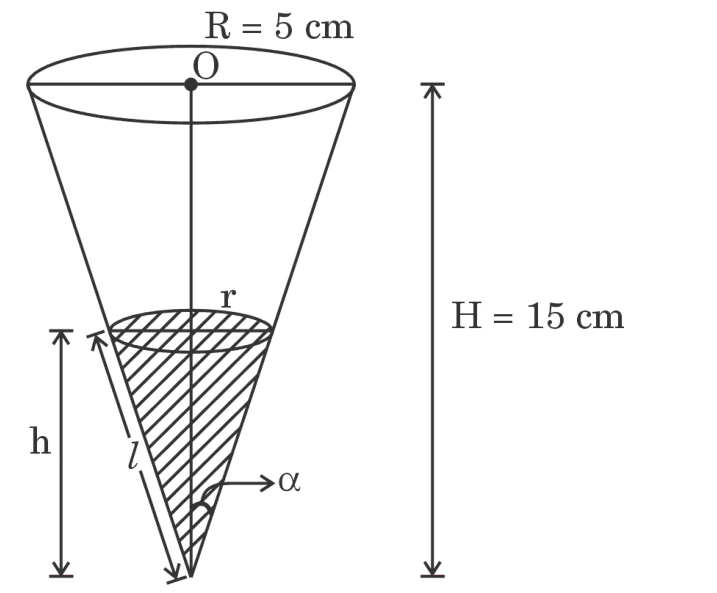
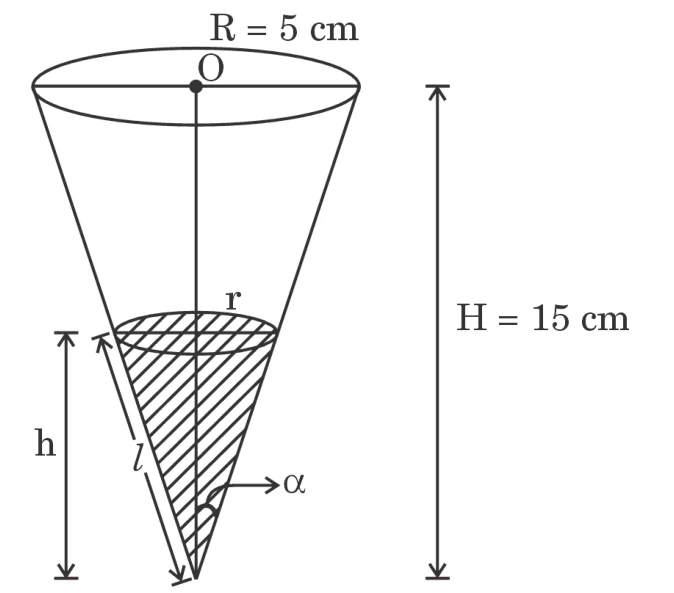
Complete 2026 65/4/1 (Q26-38)
Claude-Session: https://claude.ai/code/session_01W7XZGjmttugF6fo92Sv419

Changed region(s): [[0.0312, 0.0, 0.5608, 1.0], [0.592, 0.1214, 0.9347, 1.0]]

diff --git a/content/2026/65-4-1.md b/content/2026/65-4-1.md
@@ -314,3 +314,238 @@ $$\cos^2\frac{\pi}{4} + \cos^2\frac{\pi}{3} + \cos^2\theta = 1 \Rightarrow \frac
 $\theta$ is acute, so $\cos\theta = \dfrac{1}{2} \Rightarrow \theta = \dfrac{\pi}{3}$.
 Since $|\vec{a}| = 1$, its components are its direction cosines:
 $$\vec{a} = \frac{1}{\sqrt{2}}\hat{i} + \frac{1}{2}\hat{j} + \frac{1}{2}\hat{k},\quad\text{components } \frac{1}{\sqrt{2}},\ \frac{1}{2},\ \frac{1}{2}$$
+
+=== 26a | rf | 3 | sub
+@topic One-one and onto functions
+Let $A = \mathbb{R} - \{3\}$ and $B = \mathbb{R} - \{1\}$. A function $f : A \to B$ is defined by $f(x) = \left(\dfrac{x - 2}{x - 3}\right)$. Find whether $f$ is one-one and onto.
+--- ans
+**One-one:** Let $x_1, x_2 \in A$ with $f(x_1) = f(x_2)$.
+$$\frac{x_1 - 2}{x_1 - 3} = \frac{x_2 - 2}{x_2 - 3} \Rightarrow x_1x_2 - 3x_1 - 2x_2 + 6 = x_1x_2 - 2x_1 - 3x_2 + 6 \Rightarrow -x_1 = -x_2 \Rightarrow x_1 = x_2$$
+$\therefore f$ is one-one.
+**Onto:** Let $y \in B$ ($y \ne 1$). Put $\dfrac{x - 2}{x - 3} = y \Rightarrow x - 2 = xy - 3y \Rightarrow x(1 - y) = 2 - 3y \Rightarrow x = \dfrac{3y - 2}{y - 1}$.
+This $x$ is real since $y \ne 1$, and $x \ne 3$ (otherwise $3y - 2 = 3y - 3$, i.e. $-2 = -3$, impossible), so $x \in A$, and $f(x) = \dfrac{\frac{3y-2}{y-1} - 2}{\frac{3y-2}{y-1} - 3} = \dfrac{y}{1} = y$.
+$\therefore$ every $y \in B$ has a pre-image; $f$ is onto.
+Hence **$f$ is both one-one and onto** (bijective).
+
+=== 26b | rf | 3 | sub
+@topic Equivalence relations and classes
+Let $n$ be a fixed positive integer. A relation $R$ is defined in set $\mathbb{Z}$ such that $R = \{(x, y) : (x - y) \text{ is divisible by } n,\ x, y \in \mathbb{Z}\}$. Determine if $R$ is an equivalence relation.
+--- ans
+**Reflexive:** For every $x \in \mathbb{Z}$, $x - x = 0 = 0 \cdot n$ is divisible by $n$, so $(x, x) \in R$.
+**Symmetric:** $(x, y) \in R \Rightarrow x - y = kn$ for some $k \in \mathbb{Z} \Rightarrow y - x = (-k)n \Rightarrow (y, x) \in R$.
+**Transitive:** $(x, y), (y, z) \in R \Rightarrow x - y = k_1n,\ y - z = k_2n \Rightarrow x - z = (k_1 + k_2)n \Rightarrow (x, z) \in R$.
+Since $R$ is reflexive, symmetric and transitive, **$R$ is an equivalence relation**.
+
+=== 27 | mat | 3 | sub
+@topic Operations on matrices
+If $A = \begin{bmatrix} 3 & 2 & 0 \\ 1 & 4 & 0 \\ 0 & 0 & 5 \end{bmatrix}$, then compute $A^2 - 7A + 10I$.
+--- ans
+$$A^2 = \begin{bmatrix} 3 & 2 & 0 \\ 1 & 4 & 0 \\ 0 & 0 & 5 \end{bmatrix}\begin{bmatrix} 3 & 2 & 0 \\ 1 & 4 & 0 \\ 0 & 0 & 5 \end{bmatrix} = \begin{bmatrix} 9 + 2 & 6 + 8 & 0 \\ 3 + 4 & 2 + 16 & 0 \\ 0 & 0 & 25 \end{bmatrix} = \begin{bmatrix} 11 & 14 & 0 \\ 7 & 18 & 0 \\ 0 & 0 & 25 \end{bmatrix}$$
+$$7A = \begin{bmatrix} 21 & 14 & 0 \\ 7 & 28 & 0 \\ 0 & 0 & 35 \end{bmatrix},\qquad 10I = \begin{bmatrix} 10 & 0 & 0 \\ 0 & 10 & 0 \\ 0 & 0 & 10 \end{bmatrix}$$
+$$A^2 - 7A + 10I = \begin{bmatrix} 11 - 21 + 10 & 14 - 14 + 0 & 0 \\ 7 - 7 + 0 & 18 - 28 + 10 & 0 \\ 0 & 0 & 25 - 35 + 10 \end{bmatrix} = \begin{bmatrix} 0 & 0 & 0 \\ 0 & 0 & 0 \\ 0 & 0 & 0 \end{bmatrix}$$
+$\therefore$ **$A^2 - 7A + 10I = O$** (the zero matrix).
+
+=== 28a | cd | 3 | sub
+@topic Logarithmic differentiation
+If $xy = e^{x - y}$, then find $\dfrac{dy}{dx}$.
+--- ans
+Taking logarithms: $\log x + \log y = x - y$.
+Differentiating w.r.t. $x$:
+$$\frac{1}{x} + \frac{1}{y}\frac{dy}{dx} = 1 - \frac{dy}{dx} \Rightarrow \frac{dy}{dx}\left(\frac{1}{y} + 1\right) = 1 - \frac{1}{x} \Rightarrow \frac{dy}{dx}\cdot\frac{1 + y}{y} = \frac{x - 1}{x}$$
+$$\boxed{\dfrac{dy}{dx} = \dfrac{y(x - 1)}{x(1 + y)}}$$
+
+=== 28b | cd | 3 | sub
+@topic Derivatives of inverse trigonometric functions
+Differentiate $\tan^{-1}\left(\dfrac{\sqrt{1 + x^2} - \sqrt{1 - x^2}}{\sqrt{1 + x^2} + \sqrt{1 - x^2}}\right)$ with respect to $\cos^{-1}x^2$.
+--- ans
+Let $u = \tan^{-1}\left(\dfrac{\sqrt{1 + x^2} - \sqrt{1 - x^2}}{\sqrt{1 + x^2} + \sqrt{1 - x^2}}\right)$ and $v = \cos^{-1}x^2$.
+Put $x^2 = \cos 2\theta$, so $\theta = \dfrac{1}{2}\cos^{-1}x^2 \in \left[0, \dfrac{\pi}{4}\right]$. Then $\sqrt{1 + \cos 2\theta} = \sqrt{2}\cos\theta$, $\sqrt{1 - \cos 2\theta} = \sqrt{2}\sin\theta$.
+$$u = \tan^{-1}\left(\frac{\cos\theta - \sin\theta}{\cos\theta + \sin\theta}\right) = \tan^{-1}\left(\frac{1 - \tan\theta}{1 + \tan\theta}\right) = \tan^{-1}\left(\tan\left(\frac{\pi}{4} - \theta\right)\right) = \frac{\pi}{4} - \theta$$
+(valid since $\frac{\pi}{4} - \theta \in \left[0, \frac{\pi}{4}\right]$). So
+$$u = \frac{\pi}{4} - \frac{1}{2}\cos^{-1}x^2 = \frac{\pi}{4} - \frac{1}{2}v \Rightarrow \boxed{\dfrac{du}{dv} = -\dfrac{1}{2}}$$
+
+=== 29 | lpp | 3 | sub
+@topic Graphical method – bounded region
+Solve the following Linear Programming Problem graphically :
+Maximise $Z = 200x + 120y$
+subject to the constraints
+$$x + y \le 300,\quad 3x + y \le 600,\quad x - y \ge -100,\quad x, y \ge 0$$
+--- ans
+Draw the lines $x + y = 300$ (through $(300, 0), (0, 300)$), $3x + y = 600$ (through $(200, 0), (0, 600)$) and $x - y = -100$ (through $(-100, 0), (0, 100)$). The origin satisfies all three inequalities, so the feasible region OABCD lies on the origin side of each line.
+```plot
+{"x":[-20,320],"y":[-20,320],"lines":[{"a":1,"b":1,"c":300,"label":"x+y=300"},{"a":3,"b":1,"c":600,"label":"3x+y=600"},{"a":1,"b":-1,"c":-100,"label":"x−y=−100"}],"polygons":[{"pts":[[0,0],[200,0],[150,150],[100,200],[0,100]]}],"points":[[0,0,"O"],[200,0,"A(200, 0)"],[150,150,"B(150, 150)"],[100,200,"C(100, 200)"],[0,100,"D(0, 100)"]]}
+```
+B: $x + y = 300$ and $3x + y = 600 \Rightarrow 2x = 300 \Rightarrow (150, 150)$. C: $x + y = 300$ and $y = x + 100 \Rightarrow (100, 200)$.
+
+| Corner point | $Z = 200x + 120y$ |
+|---|---|
+| O$(0, 0)$ | $0$ |
+| A$(200, 0)$ | $40000$ |
+| B$(150, 150)$ | $48000$ ← maximum |
+| C$(100, 200)$ | $44000$ |
+| D$(0, 100)$ | $12000$ |
+
+The region is bounded, so **maximum $Z = 48000$ at $x = 150,\ y = 150$**.
+
+=== 30a | 3d | 3 | sub
+@topic Equation of a line
+Find a point on the line $\dfrac{x - 2}{3} = \dfrac{1 - y}{2} = \dfrac{z - 3}{2}$ at a distance of $\sqrt{2}$ units from the point $(1, 2, 3)$.
+--- ans
+Let $\dfrac{x - 2}{3} = \dfrac{1 - y}{2} = \dfrac{z - 3}{2} = \lambda$. Any point on the line is $P(3\lambda + 2,\ 1 - 2\lambda,\ 2\lambda + 3)$.
+Distance from $Q(1, 2, 3)$:
+$$PQ^2 = (3\lambda + 1)^2 + (-1 - 2\lambda)^2 + (2\lambda)^2 = 2$$
+$$9\lambda^2 + 6\lambda + 1 + 4\lambda^2 + 4\lambda + 1 + 4\lambda^2 = 2 \Rightarrow 17\lambda^2 + 10\lambda = 0 \Rightarrow \lambda = 0 \text{ or } \lambda = -\frac{10}{17}$$
+$\lambda = 0$: $P(2, 1, 3)$. $\quad\lambda = -\dfrac{10}{17}$: $P\left(\dfrac{4}{17}, \dfrac{37}{17}, \dfrac{31}{17}\right)$.
+Required point: **$(2, 1, 3)$** (or $\left(\frac{4}{17}, \frac{37}{17}, \frac{31}{17}\right)$).
+
+=== 30b | 3d | 3 | sub
+@topic Shortest distance between lines
+Find the shortest distance between the lines
+$$\vec{r} = (4 + \lambda)\hat{i} + (2\lambda - 1)\hat{j} - 3\lambda\hat{k}$$
+$$\vec{r} = (1 + 2\mu)\hat{i} + (2 - 5\mu)\hat{k} + (4\mu - 1)\hat{j}.$$
+--- ans
+Write the lines as $\vec{r} = \vec{a}_1 + \lambda\vec{b}_1$ and $\vec{r} = \vec{a}_2 + \mu\vec{b}_2$:
+$\vec{a}_1 = 4\hat{i} - \hat{j}$, $\vec{b}_1 = \hat{i} + 2\hat{j} - 3\hat{k}$; $\quad\vec{a}_2 = \hat{i} - \hat{j} + 2\hat{k}$, $\vec{b}_2 = 2\hat{i} + 4\hat{j} - 5\hat{k}$.
+$$\vec{b}_1 \times \vec{b}_2 = \begin{vmatrix} \hat{i} & \hat{j} & \hat{k} \\ 1 & 2 & -3 \\ 2 & 4 & -5 \end{vmatrix} = (-10 + 12)\hat{i} - (-5 + 6)\hat{j} + (4 - 4)\hat{k} = 2\hat{i} - \hat{j}$$
+$|\vec{b}_1 \times \vec{b}_2| = \sqrt{5}$, $\quad\vec{a}_2 - \vec{a}_1 = -3\hat{i} + 2\hat{k}$, $\quad(\vec{a}_2 - \vec{a}_1)\cdot(\vec{b}_1 \times \vec{b}_2) = -6$.
+$$SD = \left|\frac{(\vec{a}_2 - \vec{a}_1)\cdot(\vec{b}_1 \times \vec{b}_2)}{|\vec{b}_1 \times \vec{b}_2|}\right| = \frac{6}{\sqrt{5}} \text{ units}$$
+
+=== 31 | prob | 3 | sub
+@topic Total probability and Bayes' theorem
+In a school, the probability of holding a debate competition is $\dfrac{1}{3}$ and that of a quiz competition is $\dfrac{2}{3}$. In the two participating teams, A has 4 girls and 6 boys and B has 7 girls and 3 boys. If a debate competition is held, the students are selected from team A and for the quiz competition they are selected from team B. If only two students are to be chosen from the teams, then find the probability that one will be a girl and the other a boy.
+--- ans
+Let $E_1$: debate is held (team A), $E_2$: quiz is held (team B), $E$: one girl and one boy are chosen.
+$P(E_1) = \dfrac{1}{3}$, $P(E_2) = \dfrac{2}{3}$.
+$$P(E \mid E_1) = \frac{{}^4C_1 \times {}^6C_1}{{}^{10}C_2} = \frac{24}{45} = \frac{8}{15},\qquad P(E \mid E_2) = \frac{{}^7C_1 \times {}^3C_1}{{}^{10}C_2} = \frac{21}{45} = \frac{7}{15}$$
+By the theorem of total probability,
+$$P(E) = P(E_1)P(E \mid E_1) + P(E_2)P(E \mid E_2) = \frac{1}{3}\cdot\frac{8}{15} + \frac{2}{3}\cdot\frac{7}{15} = \frac{8 + 14}{45} = \boxed{\dfrac{22}{45}}$$
+
+=== 32a | int | 5 | sub
+@topic Partial fractions
+Find : $\displaystyle\int \frac{x}{(x - 1)(x^2 + 4)}\,dx$
+--- ans
+Let $\dfrac{x}{(x - 1)(x^2 + 4)} = \dfrac{A}{x - 1} + \dfrac{Bx + C}{x^2 + 4} \Rightarrow x = A(x^2 + 4) + (Bx + C)(x - 1)$.
+Put $x = 1$: $1 = 5A \Rightarrow A = \dfrac{1}{5}$. Comparing coefficients of $x^2$: $A + B = 0 \Rightarrow B = -\dfrac{1}{5}$. Constants: $4A - C = 0 \Rightarrow C = \dfrac{4}{5}$.
+$$I = \frac{1}{5}\int\frac{dx}{x - 1} - \frac{1}{5}\int\frac{x}{x^2 + 4}\,dx + \frac{4}{5}\int\frac{dx}{x^2 + 4}$$
+$$= \frac{1}{5}\log|x - 1| - \frac{1}{10}\log(x^2 + 4) + \frac{4}{5}\cdot\frac{1}{2}\tan^{-1}\frac{x}{2} + C$$
+$$\boxed{I = \dfrac{1}{5}\log|x - 1| - \dfrac{1}{10}\log(x^2 + 4) + \dfrac{2}{5}\tan^{-1}\dfrac{x}{2} + C}$$
+
+=== 32b | int | 5 | sub
+@topic Integration by parts
+Evaluate : $\displaystyle\int_0^1 \frac{x\tan^{-1}x}{(1 + x^2)^{3/2}}\,dx$
+--- ans
+Put $x = \tan\theta$, $dx = \sec^2\theta\,d\theta$; $x = 0 \Rightarrow \theta = 0$, $x = 1 \Rightarrow \theta = \dfrac{\pi}{4}$. Also $(1 + x^2)^{3/2} = \sec^3\theta$.
+$$I = \int_0^{\pi/4} \frac{\tan\theta\cdot\theta\cdot\sec^2\theta}{\sec^3\theta}\,d\theta = \int_0^{\pi/4} \theta\sin\theta\,d\theta$$
+Integrating by parts (first function $\theta$):
+$$I = \Big[-\theta\cos\theta\Big]_0^{\pi/4} + \int_0^{\pi/4}\cos\theta\,d\theta = -\frac{\pi}{4}\cdot\frac{1}{\sqrt{2}} + \Big[\sin\theta\Big]_0^{\pi/4} = -\frac{\pi}{4\sqrt{2}} + \frac{1}{\sqrt{2}}$$
+$$\boxed{I = \dfrac{1}{\sqrt{2}}\left(1 - \dfrac{\pi}{4}\right) = \dfrac{4 - \pi}{4\sqrt{2}}}$$
+
+=== 33 | aoi | 5 | sub
+@topic Area enclosed by lines
+Using integration, find the area of the region enclosed by the curve $y = |x - 6|$, the x-axis, and between $x = 4$ and $x = 8$.
+--- ans
+$y = |x - 6| = \begin{cases} 6 - x, & x < 6 \\ x - 6, & x \ge 6 \end{cases}$
+```plot
+{"x":[3,9],"y":[-0.5,3],"fns":[{"f":"abs(x-6)","from":3,"to":9}],"areas":[{"upper":"abs(x-6)","lower":"0","from":4,"to":8}],"points":[[4,2,"(4, 2)"],[6,0,"(6, 0)"],[8,2,"(8, 2)"]],"labels":[[7.4,2.6,"y = |x − 6|"]]}
+```
+$$\text{Area} = \int_4^6 (6 - x)\,dx + \int_6^8 (x - 6)\,dx = \left[6x - \frac{x^2}{2}\right]_4^6 + \left[\frac{x^2}{2} - 6x\right]_6^8$$
+$$= (18 - 16) + (-16 - (-18)) = 2 + 2 = 4$$
+**Required area = 4 sq. units.**
+
+=== 34a | de | 5 | sub
+@topic Linear differential equations
+Solve the differential equation $y\,e^y\,dx = (y^3 + 2x\,e^y)\,dy$, when $y(0) = 1$.
+--- ans
+$$\frac{dx}{dy} = \frac{y^3 + 2xe^y}{ye^y} = y^2e^{-y} + \frac{2x}{y} \Rightarrow \frac{dx}{dy} - \frac{2}{y}x = y^2e^{-y}$$
+This is linear in $x$ with $P = -\dfrac{2}{y}$, $Q = y^2e^{-y}$.
+$$\text{I.F.} = e^{\int -\frac{2}{y}dy} = e^{-2\log y} = \frac{1}{y^2}$$
+Solution: $x\cdot\dfrac{1}{y^2} = \displaystyle\int y^2e^{-y}\cdot\frac{1}{y^2}\,dy = \int e^{-y}\,dy = -e^{-y} + C$.
+Using $y(0) = 1$ (i.e. $x = 0$ when $y = 1$): $0 = -e^{-1} + C \Rightarrow C = \dfrac{1}{e}$.
+$$\boxed{x = y^2\left(\dfrac{1}{e} - e^{-y}\right)}$$
+
+=== 34b | de | 5 | sub
+@topic Homogeneous equations
+Find the general solution of the differential equation
+$$(x^3 - 3xy^2)\,dx = (y^3 - 3x^2y)\,dy.$$
+--- ans
+$\dfrac{dy}{dx} = \dfrac{x^3 - 3xy^2}{y^3 - 3x^2y}$ is homogeneous. Put $y = vx$, $\dfrac{dy}{dx} = v + x\dfrac{dv}{dx}$:
+$$v + x\frac{dv}{dx} = \frac{1 - 3v^2}{v^3 - 3v} \Rightarrow x\frac{dv}{dx} = \frac{1 - 3v^2 - v^4 + 3v^2}{v^3 - 3v} = \frac{1 - v^4}{v^3 - 3v}$$
+$$\int\frac{v^3 - 3v}{1 - v^4}\,dv = \int\frac{dx}{x}$$
+Now $\displaystyle\int\frac{v^3}{1 - v^4}dv = -\frac{1}{4}\log|1 - v^4|$ and, with $t = v^2$, $\displaystyle\int\frac{3v}{1 - v^4}dv = \frac{3}{2}\int\frac{dt}{1 - t^2} = \frac{3}{4}\log\left|\frac{1 + v^2}{1 - v^2}\right|$.
+$$-\frac{1}{4}\log|1 - v^4| - \frac{3}{4}\log\left|\frac{1 + v^2}{1 - v^2}\right| = \log|x| + c$$
+Multiplying by $-4$: $\log\left|(1 - v^2)(1 + v^2)\cdot\dfrac{(1 + v^2)^3}{(1 - v^2)^3}\right| = -4\log|x| + c_1 \Rightarrow \dfrac{(1 + v^2)^4}{(1 - v^2)^2} = \dfrac{C}{x^4}$
+Substituting $v = \dfrac{y}{x}$: $\dfrac{(x^2 + y^2)^4}{(x^2 - y^2)^2} = C \Rightarrow$
+$$\boxed{(x^2 + y^2)^2 = K(x^2 - y^2)}$$
+where $K$ is an arbitrary constant.
+
+=== 35 | 3d | 5 | sub
+@topic Intersection and collinearity
+Find the equation of a line (in vector and cartesian form) that passes through the point of intersection of lines $\dfrac{x - 1}{2} = \dfrac{y - 2}{3} = \dfrac{z - 3}{4}$ and $\dfrac{x - 4}{5} = \dfrac{y - 1}{2} = z$ and is parallel to the vector $3\hat{i} + 2\hat{j} - 8\hat{k}$.
+--- ans
+General points: $L_1$: $(2\lambda + 1,\ 3\lambda + 2,\ 4\lambda + 3)$; $\quad L_2$: $(5\mu + 4,\ 2\mu + 1,\ \mu)$.
+At the intersection:
+$$2\lambda + 1 = 5\mu + 4 \Rightarrow 2\lambda - 5\mu = 3 \quad\text{and}\quad 3\lambda + 2 = 2\mu + 1 \Rightarrow 3\lambda - 2\mu = -1$$
+Solving: $\lambda = -1$, $\mu = -1$. Check $z$: $4(-1) + 3 = -1 = \mu$ ✓.
+Point of intersection: $(-1, -1, -1)$.
+Required line through $(-1, -1, -1)$ parallel to $3\hat{i} + 2\hat{j} - 8\hat{k}$:
+**Vector form:** $\vec{r} = (-\hat{i} - \hat{j} - \hat{k}) + t(3\hat{i} + 2\hat{j} - 8\hat{k})$
+**Cartesian form:** $\dfrac{x + 1}{3} = \dfrac{y + 1}{2} = \dfrac{z + 1}{-8}$
+
+=== 36 | aod | 4 | case
+@topic Rate of change
+@fig 2026-65-4-1-q36.webp
+At a birthday party, children are being served orange juice in conical cups, as shown in the figure.
+[[fig]]
+Each cup is 15 cm deep and has a radius 5 cm. The juice is being poured into this cup at a rate of $0{\cdot}1\ \text{cm}^3/\text{s}$.
+On the basis of the above information, answer the following questions :
+(i) Establish a relation between the height $h$ of the juice in the cup and radius $r$ of the surface of the juice in the cup, if the semi-vertical angle of the cone is $\alpha$. **[1]**
+(ii) At what rate is the juice level in the cup rising when the juice is 6 cm deep ? **[1]**
+(iii) (a) When the juice is 6 cm deep, then find at what rate is the upper surface area of juice increasing ? **[2]**
+**OR**
+(iii) (b) When the juice is 6 cm deep, then find the rate at which the wetted surface area of the cup is increasing. **[2]**
+--- ans
+**(i)** $\tan\alpha = \dfrac{r}{h} = \dfrac{R}{H} = \dfrac{5}{15} = \dfrac{1}{3}$, so $r = h\tan\alpha$, i.e. **$r = \dfrac{h}{3}$**.
+**(ii)** Volume of juice $V = \dfrac{1}{3}\pi r^2h = \dfrac{1}{3}\pi\cdot\dfrac{h^2}{9}\cdot h = \dfrac{\pi h^3}{27}$.
+$$\frac{dV}{dt} = \frac{\pi h^2}{9}\frac{dh}{dt} \Rightarrow 0.1 = \frac{\pi(36)}{9}\frac{dh}{dt} = 4\pi\frac{dh}{dt} \Rightarrow \frac{dh}{dt} = \frac{1}{40\pi}\ \text{cm/s}$$
+**(iii) (a)** Upper surface area $A = \pi r^2 = \dfrac{\pi h^2}{9}$.
+$$\frac{dA}{dt} = \frac{2\pi h}{9}\frac{dh}{dt} = \frac{2\pi(6)}{9}\cdot\frac{1}{40\pi} = \frac{1}{30}\ \text{cm}^2/\text{s}$$
+**(iii) (b)** Wetted surface = curved surface of the juice cone, $S = \pi rl$ with $l = \sqrt{r^2 + h^2} = \sqrt{\dfrac{h^2}{9} + h^2} = \dfrac{\sqrt{10}\,h}{3}$.
+$$S = \pi\cdot\frac{h}{3}\cdot\frac{\sqrt{10}\,h}{3} = \frac{\sqrt{10}\,\pi h^2}{9} \Rightarrow \frac{dS}{dt} = \frac{2\sqrt{10}\,\pi h}{9}\frac{dh}{dt} = \frac{2\sqrt{10}\,\pi(6)}{9}\cdot\frac{1}{40\pi} = \frac{\sqrt{10}}{30}\ \text{cm}^2/\text{s}$$
+
+=== 37 | det | 4 | case
+@topic Systems of linear equations
+A carpenter needs to design a wooden box in the shape of a cuboid such that the sum of its length and breadth is 3 cm more than its height. Twice of its length, thrice of its breadth and its height add up to 10 cm. Its breadth added to 7 times its height is 1 cm less than 3 times its length.
+On the basis of the above information, answer the following questions :
+(i) Write the equations representing the various dimensions and express them as the matrix equation $AX = B$. **[1]**
+(ii) Find if $A^{-1}$ exists. Justify your answer. **[1]**
+(iii) (a) Find $A^{-1}$. **[2]**
+**OR**
+(iii) (b) Find $A^2 + 7I$. **[2]**
+--- ans
+**(i)** Let length $= l$, breadth $= b$, height $= h$ (in cm):
+$$l + b - h = 3,\qquad 2l + 3b + h = 10,\qquad 3l - b - 7h = 1$$
+$$\underbrace{\begin{bmatrix} 1 & 1 & -1 \\ 2 & 3 & 1 \\ 3 & -1 & -7 \end{bmatrix}}_{A}\underbrace{\begin{bmatrix} l \\ b \\ h \end{bmatrix}}_{X} = \underbrace{\begin{bmatrix} 3 \\ 10 \\ 1 \end{bmatrix}}_{B}$$
+**(ii)** $|A| = 1(-21 + 1) - 1(-14 - 3) + (-1)(-2 - 9) = -20 + 17 + 11 = 8 \ne 0$.
+Since $A$ is non-singular, **$A^{-1}$ exists**.
+**(iii) (a)** Cofactors: $C_{11} = -20,\ C_{12} = 17,\ C_{13} = -11$; $C_{21} = 8,\ C_{22} = -4,\ C_{23} = 4$; $C_{31} = 4,\ C_{32} = -3,\ C_{33} = 1$.
+$$A^{-1} = \frac{1}{|A|}\operatorname{adj}A = \frac{1}{8}\begin{bmatrix} -20 & 8 & 4 \\ 17 & -4 & -3 \\ -11 & 4 & 1 \end{bmatrix}$$
+(Then $X = A^{-1}B = \frac{1}{8}\begin{bmatrix} 24 \\ 8 \\ 8 \end{bmatrix}$, i.e. $l = 3$ cm, $b = 1$ cm, $h = 1$ cm.)
+**(iii) (b)**
+$$A^2 = \begin{bmatrix} 1 & 1 & -1 \\ 2 & 3 & 1 \\ 3 & -1 & -7 \end{bmatrix}\begin{bmatrix} 1 & 1 & -1 \\ 2 & 3 & 1 \\ 3 & -1 & -7 \end{bmatrix} = \begin{bmatrix} 0 & 5 & 7 \\ 11 & 10 & -6 \\ -20 & 7 & 45 \end{bmatrix}$$
+$$A^2 + 7I = \begin{bmatrix} 7 & 5 & 7 \\ 11 & 17 & -6 \\ -20 & 7 & 52 \end{bmatrix}$$
+(If the equations are written in a different order, $A$ and these answers change accordingly.)
+
+=== 38 | prob | 4 | case
+@topic Total probability and Bayes' theorem
+An NGO organises a charity event in which they decide to distribute woollen caps to protect children from winter. The caps to be distributed are in three separate boxes, Box I has 30 red caps, Box II has 20 red and 10 green caps, and Box III has 30 green caps. The probability that a Box $i$ is selected and a cap picked out is $\dfrac{i}{6}$, where $i = 1, 2, 3$.
+Based on the above information, answer the following questions :
+A person selects a cap.
+(i) What is the probability that he selects a red cap ? **[2]**
+(ii) If he selects a green cap, what is the probability that the cap has come from Box II ? **[2]**
+--- ans
+Let $E_1, E_2, E_3$: Box I, II, III is selected; $R$: red cap, $G$: green cap.
+$P(E_1) = \dfrac{1}{6},\ P(E_2) = \dfrac{2}{6},\ P(E_3) = \dfrac{3}{6}$; $\quad P(R \mid E_1) = 1,\ P(R \mid E_2) = \dfrac{2}{3},\ P(R \mid E_3) = 0$.
+**(i)** By total probability,
+$$P(R) = \frac{1}{6}(1) + \frac{2}{6}\cdot\frac{2}{3} + \frac{3}{6}(0) = \frac{1}{6} + \frac{2}{9} = \frac{7}{18}$$
+**(ii)** $P(G) = 1 - \dfrac{7}{18} = \dfrac{11}{18}$, $P(G \mid E_2) = \dfrac{1}{3}$. By Bayes' theorem,
+$$P(E_2 \mid G) = \frac{P(E_2)P(G \mid E_2)}{P(G)} = \frac{\frac{2}{6}\cdot\frac{1}{3}}{\frac{11}{18}} = \frac{1/9}{11/18} = \frac{2}{11}$$
